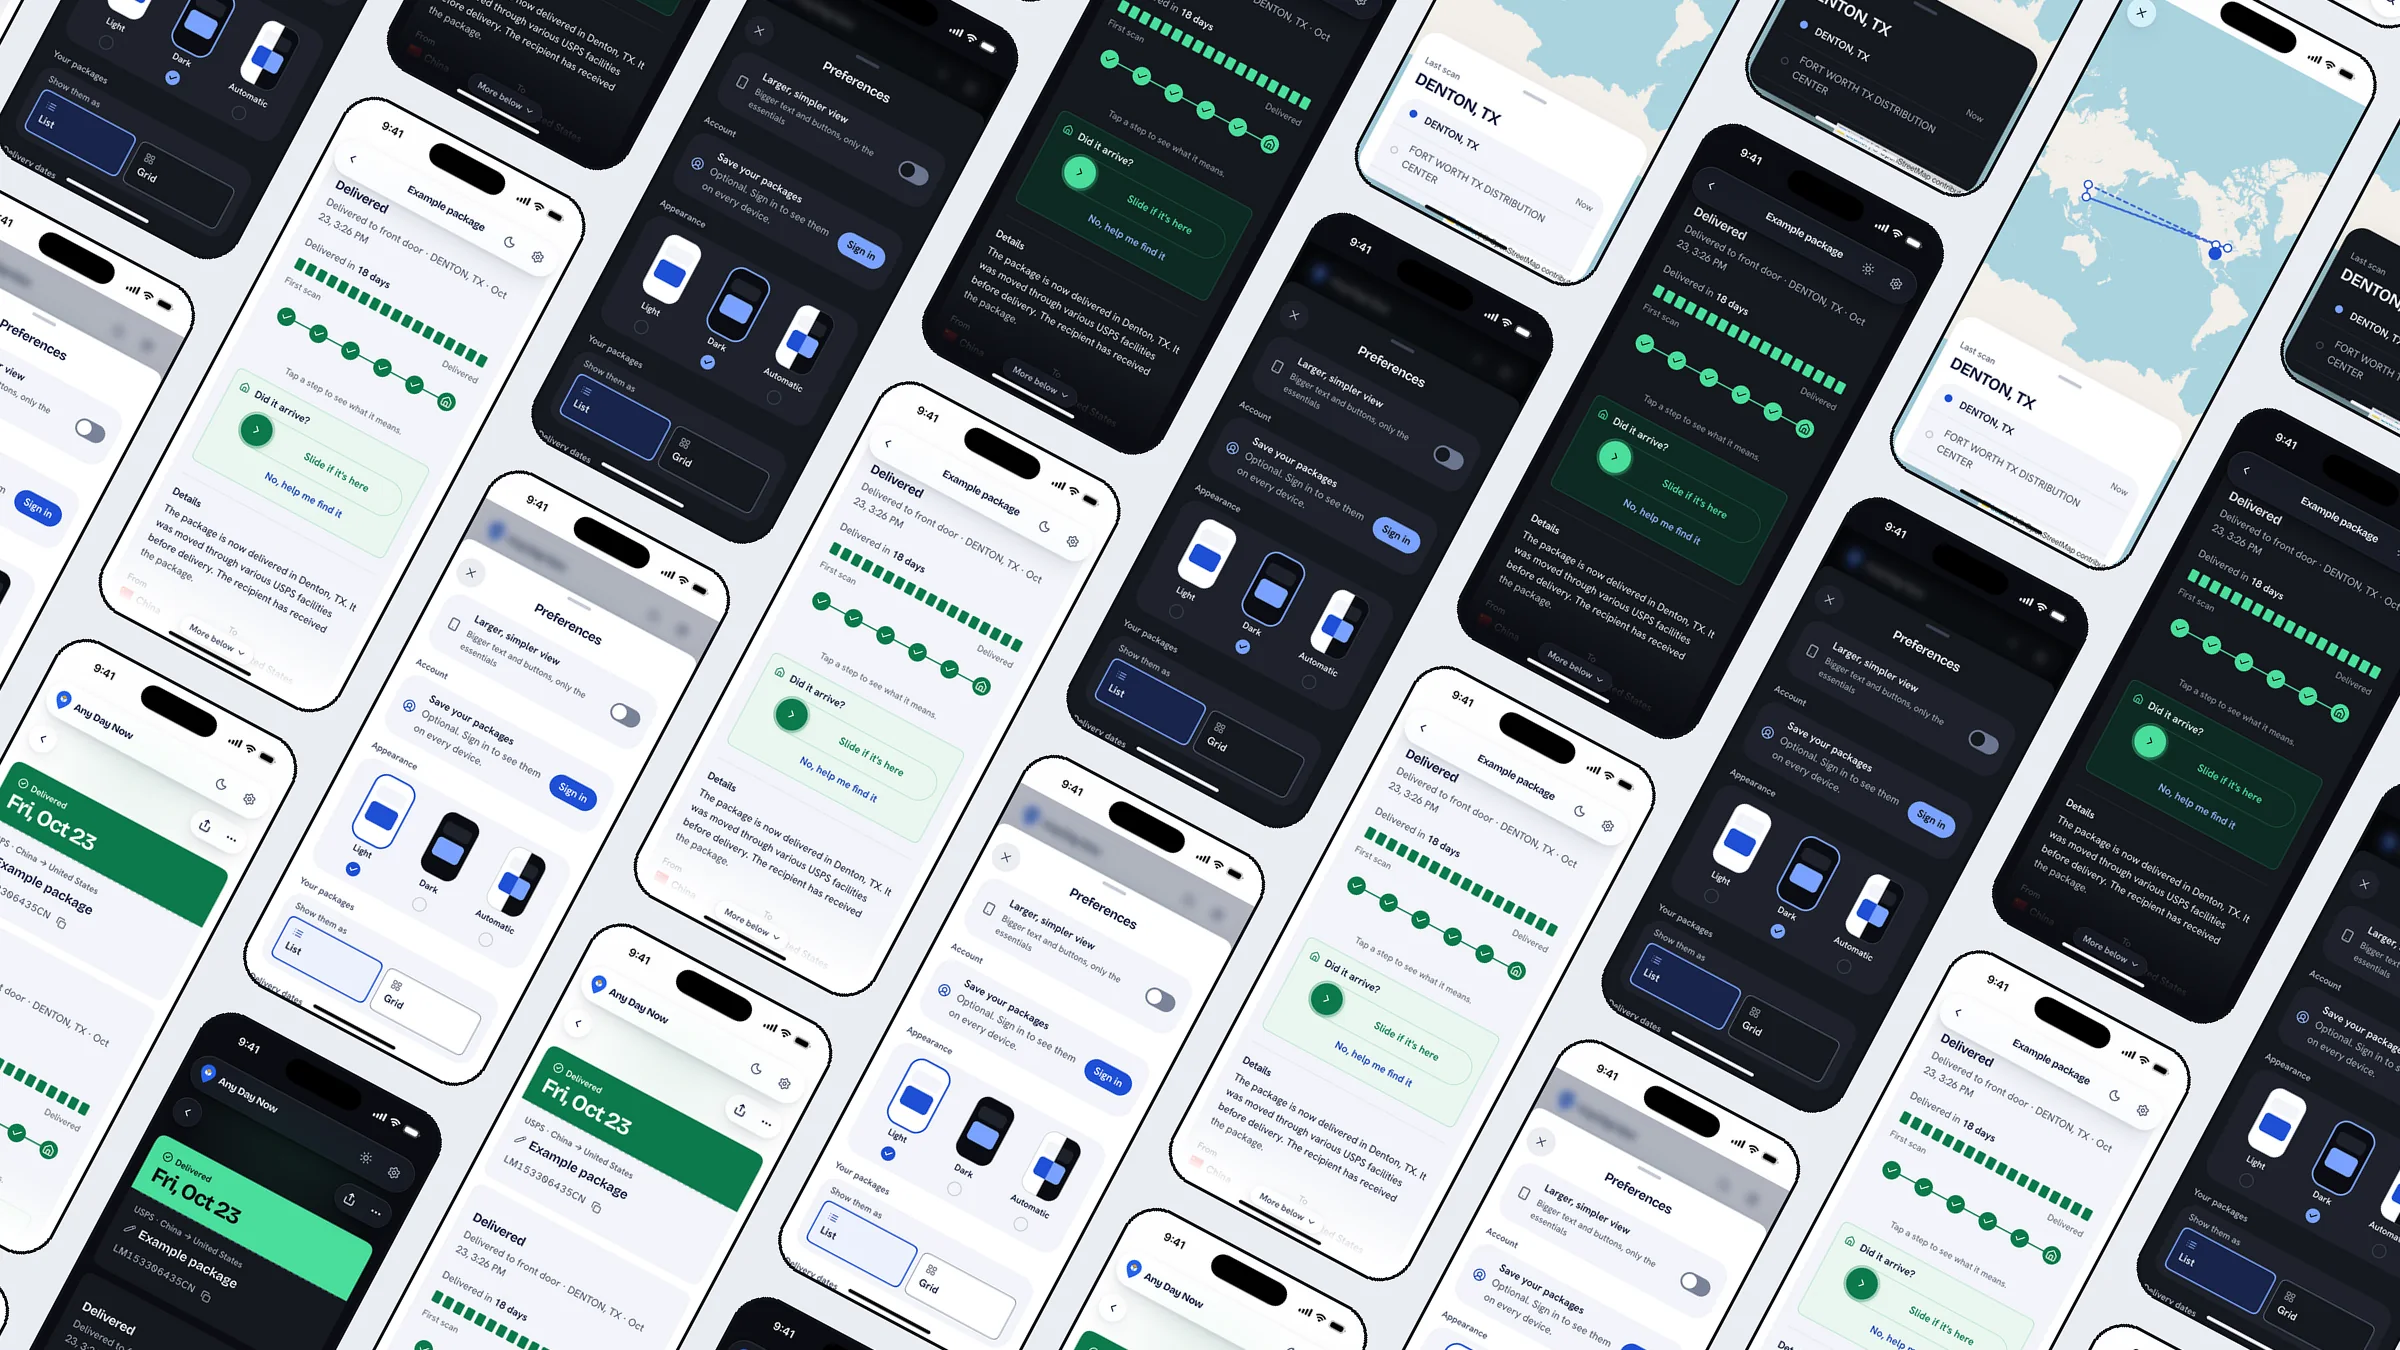
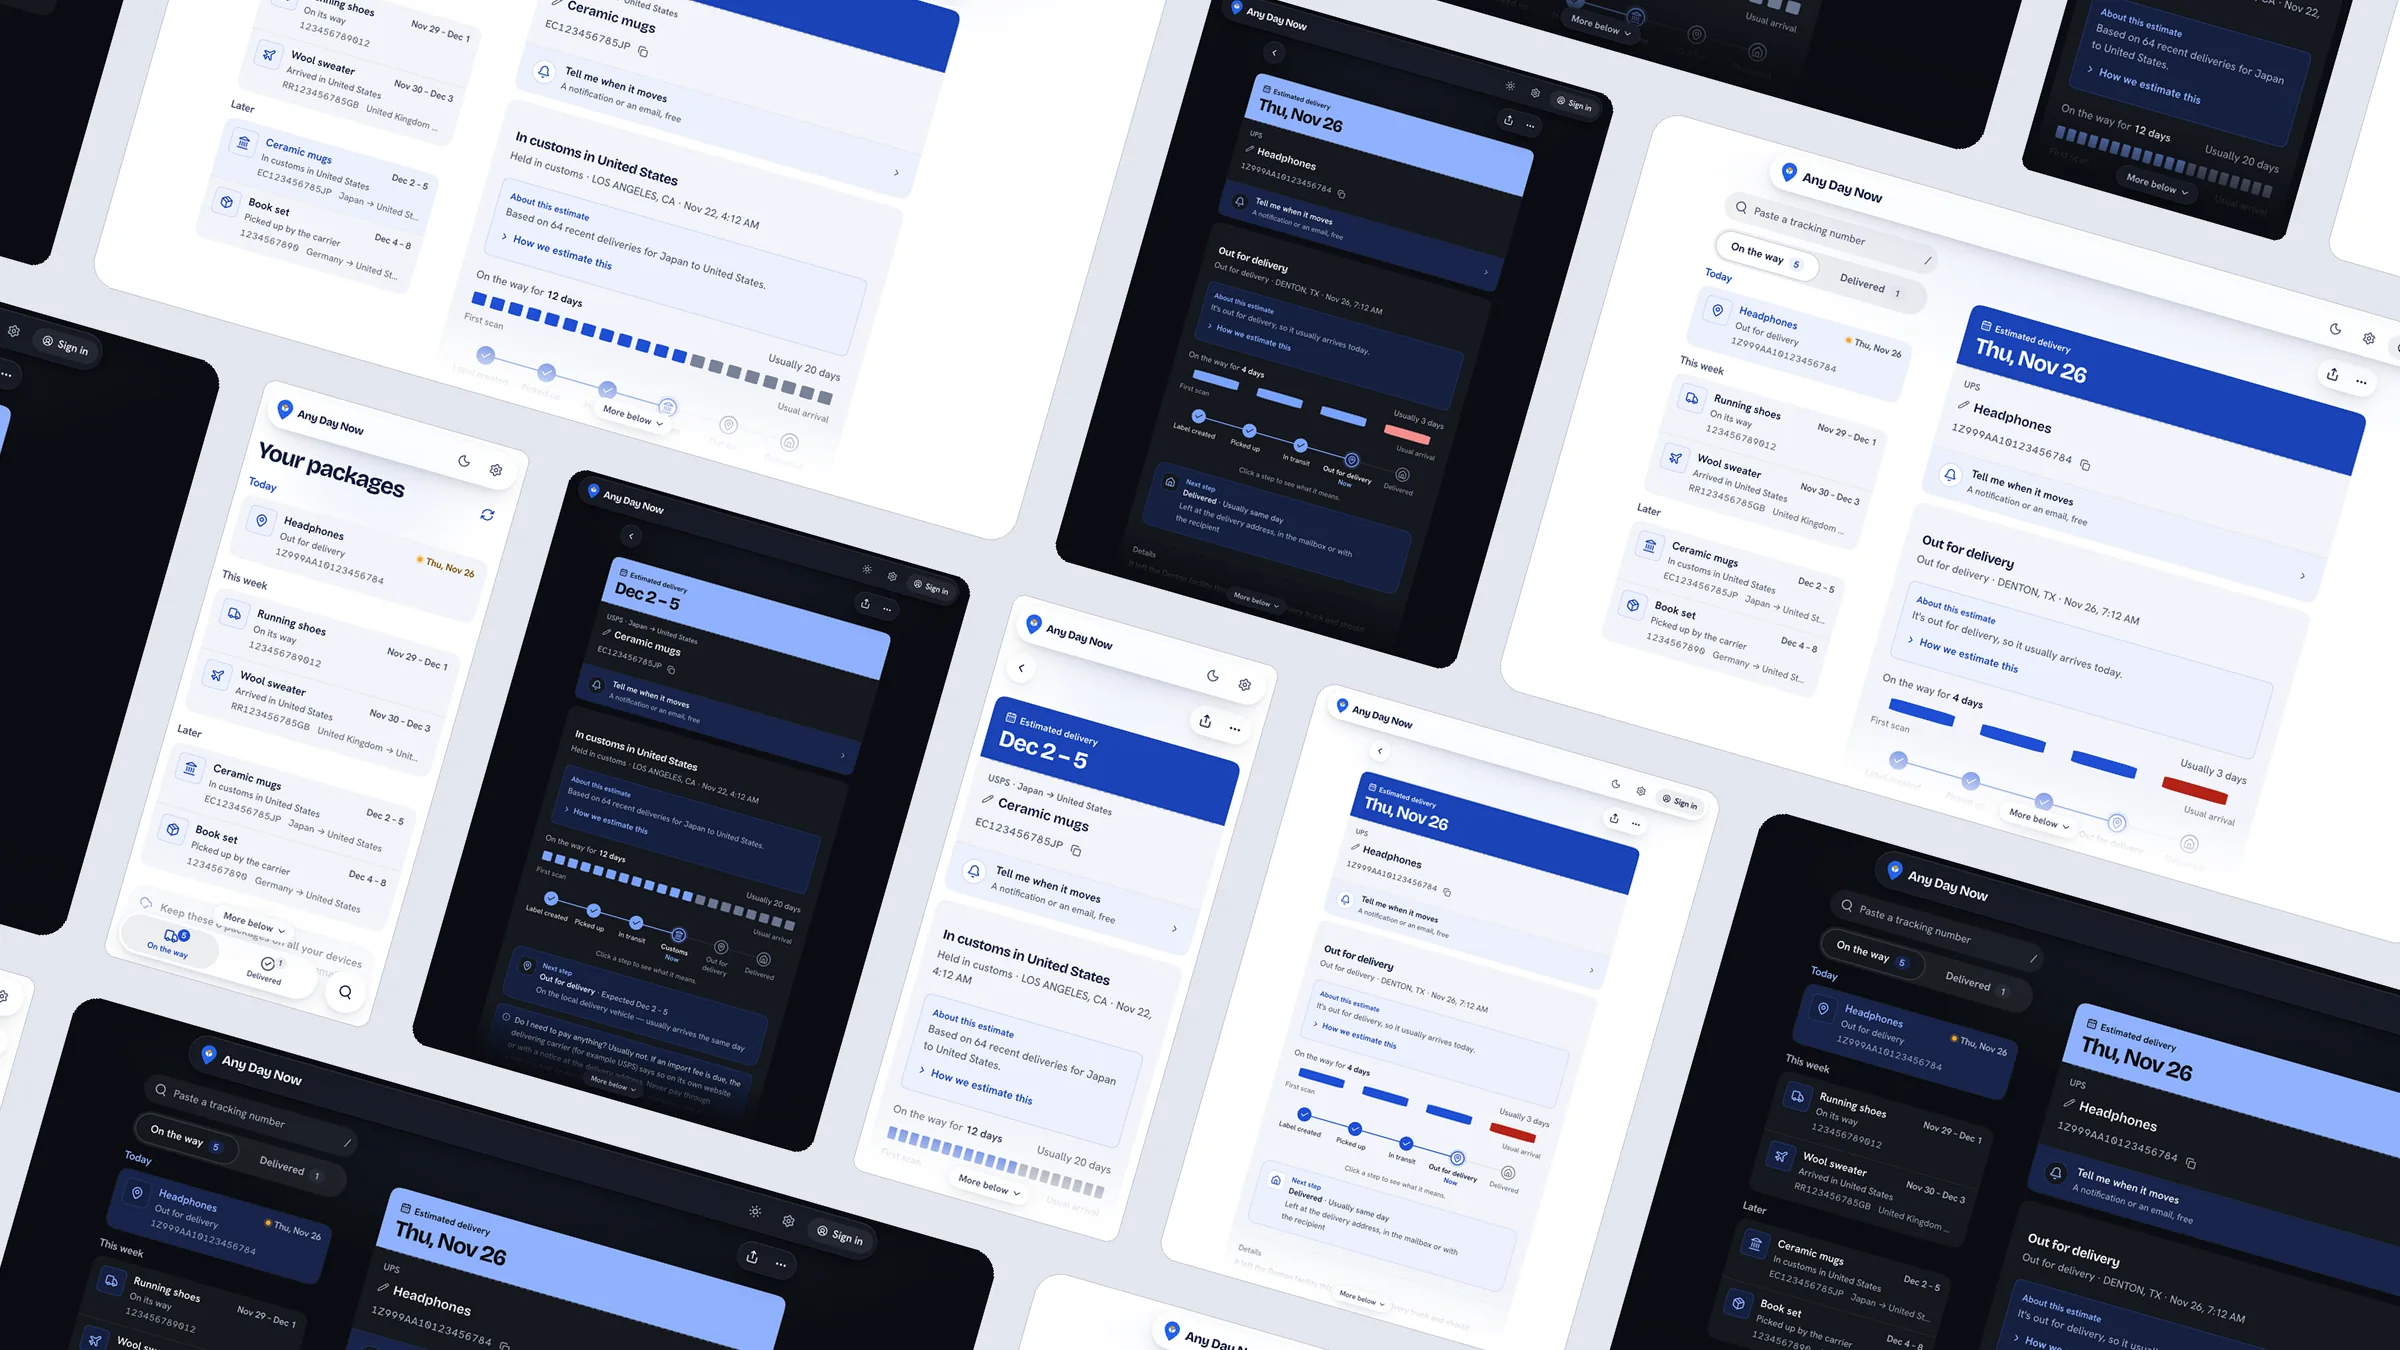
Any Day Now cover: packages and package pages on phone, tablet and desktop, no device frames

diff --git a/work/any-day-now/index.html b/work/any-day-now/index.html
@@ -7,7 +7,7 @@
 <meta name="description" content="How I designed, built, audited and launched Any Day Now, a package tracker for web, iOS and Android: audits, concepts, native features and launch videos.">
 <meta property="og:title" content="Any Day Now case study, Stevie McLane">
 <meta property="og:description" content="How I designed, built, audited and launched Any Day Now, a package tracker for web, iOS and Android: audits, concepts, native features and launch videos.">
-<meta property="og:image" content="https://steviemclane.com/assets/img/anydaynow/cover.webp?v=20261126">
+<meta property="og:image" content="https://steviemclane.com/assets/img/anydaynow/cover.webp?v=20261127">
 <meta name="theme-color" content="#0b0a10">
 <link rel="icon" type="image/png" sizes="32x32" href="/images/favicon-32.png?v=2">
 <link rel="icon" type="image/png" sizes="16x16" href="/images/favicon-16.png?v=2">
@@ -45,7 +45,7 @@
 
 <main id="main">
   <section class="case-hero">
-    <div class="case-bg cover-anydaynow" aria-hidden="true"><img src="/assets/img/anydaynow/hero-bg.webp?v=20261126" alt="" width="2400" height="1350" fetchpriority="high"></div>
+    <div class="case-bg cover-anydaynow" aria-hidden="true"><img src="/assets/img/anydaynow/hero-bg.webp?v=20261127" alt="" width="2400" height="1350" fetchpriority="high"></div>
     <div class="wrap case-hero-inner">
       <a class="back-link" href="/#work"><span aria-hidden="true">&larr;</span> All work</a>
       <h1 class="case-title" data-reveal="load">Any Day Now</h1>

diff --git a/work/taglet/index.html b/work/taglet/index.html
@@ -305,7 +305,7 @@
   <section class="more wrap" aria-labelledby="more-title">
     <h2 id="more-title" data-reveal="lines">Read more of my case studies</h2>
     <ul class="more-grid" data-reveal="stack">
-      <li><a class="more-link" href="/work/any-day-now/"><div class="work-media cover-anydaynow"><img src="/assets/img/anydaynow/cover.webp?v=20261126" alt="" width="1600" height="1100" loading="lazy" decoding="async"></div><h3>Any Day Now <span aria-hidden="true">&rarr;</span></h3><p>A package tracker in plain language, for web, iOS and Android</p></a></li>
+      <li><a class="more-link" href="/work/any-day-now/"><div class="work-media cover-anydaynow"><img src="/assets/img/anydaynow/cover.webp?v=20261127" alt="" width="1600" height="1100" loading="lazy" decoding="async"></div><h3>Any Day Now <span aria-hidden="true">&rarr;</span></h3><p>A package tracker in plain language, for web, iOS and Android</p></a></li>
       <li><a class="more-link" href="/work/blendwright/"><div class="work-media cover-blendwright"><img src="/assets/img/blendwright/cover.webp?v=4" alt="" width="1600" height="1100" loading="lazy" decoding="async"></div><h3>Blendwright <span aria-hidden="true">&rarr;</span></h3><p>A custom protein powder site built around a formula label</p></a></li>
     </ul>
   </section>

diff --git a/work/freshroute/index.html b/work/freshroute/index.html
@@ -388,7 +388,7 @@
   <section class="more wrap" aria-labelledby="more-title">
     <h2 id="more-title" data-reveal="lines">Read more of my case studies</h2>
     <ul class="more-grid" data-reveal="stack">
-      <li><a class="more-link" href="/work/any-day-now/"><div class="work-media cover-anydaynow"><img src="/assets/img/anydaynow/cover.webp?v=20261126" alt="" width="1600" height="1100" loading="lazy" decoding="async"></div><h3>Any Day Now <span aria-hidden="true">&rarr;</span></h3><p>A package tracker in plain language, for web, iOS and Android</p></a></li>
+      <li><a class="more-link" href="/work/any-day-now/"><div class="work-media cover-anydaynow"><img src="/assets/img/anydaynow/cover.webp?v=20261127" alt="" width="1600" height="1100" loading="lazy" decoding="async"></div><h3>Any Day Now <span aria-hidden="true">&rarr;</span></h3><p>A package tracker in plain language, for web, iOS and Android</p></a></li>
       <li><a class="more-link" href="/work/taglet/"><div class="work-media cover-taglet"><img src="/assets/img/taglet/cover.webp?v=1" alt="" width="1600" height="1100" loading="lazy" decoding="async"></div><h3>Taglet <span aria-hidden="true">&rarr;</span></h3><p>A browser app that tags your own music for Spotify Local Files</p></a></li>
     </ul>
   </section>

diff --git a/work/blendwright/index.html b/work/blendwright/index.html
@@ -325,7 +325,7 @@
   <section class="more wrap" aria-labelledby="more-title">
     <h2 id="more-title" data-reveal="lines">Read more of my case studies</h2>
     <ul class="more-grid" data-reveal="stack">
-      <li><a class="more-link" href="/work/any-day-now/"><div class="work-media cover-anydaynow"><img src="/assets/img/anydaynow/cover.webp?v=20261126" alt="" width="1600" height="1100" loading="lazy" decoding="async"></div><h3>Any Day Now <span aria-hidden="true">&rarr;</span></h3><p>A package tracker in plain language, for web, iOS and Android</p></a></li>
+      <li><a class="more-link" href="/work/any-day-now/"><div class="work-media cover-anydaynow"><img src="/assets/img/anydaynow/cover.webp?v=20261127" alt="" width="1600" height="1100" loading="lazy" decoding="async"></div><h3>Any Day Now <span aria-hidden="true">&rarr;</span></h3><p>A package tracker in plain language, for web, iOS and Android</p></a></li>
       <li><a class="more-link" href="/work/flexidoc/"><div class="work-media cover-flexidoc"><img src="/assets/img/flexidoc/cover.webp?v=3" alt="" width="1600" height="1100" loading="lazy" decoding="async"></div><h3>FlexiDoc <span aria-hidden="true">&rarr;</span></h3><p>Appointment scheduling for people with agoraphobia</p></a></li>
     </ul>
   </section>

diff --git a/index.html b/index.html
@@ -75,7 +75,7 @@
             <span class="work-cta">Read the case study</span>
           </div>
           <div class="work-media cover-anydaynow" data-reveal="wipe">
-            <img src="/assets/img/anydaynow/cover.webp?v=20261126" alt="A tilted wall of Any Day Now screens on iPhone, in light and dark mode" width="1600" height="1100" loading="lazy" decoding="async">
+            <img src="/assets/img/anydaynow/cover.webp?v=20261127" alt="A tilted wall of Any Day Now screens on phone, tablet and desktop: the package list, packages in customs and out for delivery, in light and dark mode" width="1600" height="1100" loading="lazy" decoding="async">
           </div>
         </a>
       </li>

diff --git a/work/flexidoc/index.html b/work/flexidoc/index.html
@@ -458,7 +458,7 @@
     <ul class="more-grid" data-reveal="stack">
       <li>
         <a class="more-link" href="/work/any-day-now/">
-          <div class="work-media cover-anydaynow"><img src="/assets/img/anydaynow/cover.webp?v=20261126" alt="" width="1600" height="1100" loading="lazy" decoding="async"></div>
+          <div class="work-media cover-anydaynow"><img src="/assets/img/anydaynow/cover.webp?v=20261127" alt="" width="1600" height="1100" loading="lazy" decoding="async"></div>
           <h3>Any Day Now <span aria-hidden="true">&rarr;</span></h3>
           <p>A package tracker for web, iOS and Android</p>
         </a>

diff --git a/work/sld/index.html b/work/sld/index.html
@@ -247,7 +247,7 @@
     <ul class="more-grid" data-reveal="stack">
       <li>
         <a class="more-link" href="/work/any-day-now/">
-          <div class="work-media cover-anydaynow"><img src="/assets/img/anydaynow/cover.webp?v=20261126" alt="" width="1600" height="1100" loading="lazy" decoding="async"></div>
+          <div class="work-media cover-anydaynow"><img src="/assets/img/anydaynow/cover.webp?v=20261127" alt="" width="1600" height="1100" loading="lazy" decoding="async"></div>
           <h3>Any Day Now <span aria-hidden="true">&rarr;</span></h3>
           <p>A package tracker for web, iOS and Android</p>
         </a>
